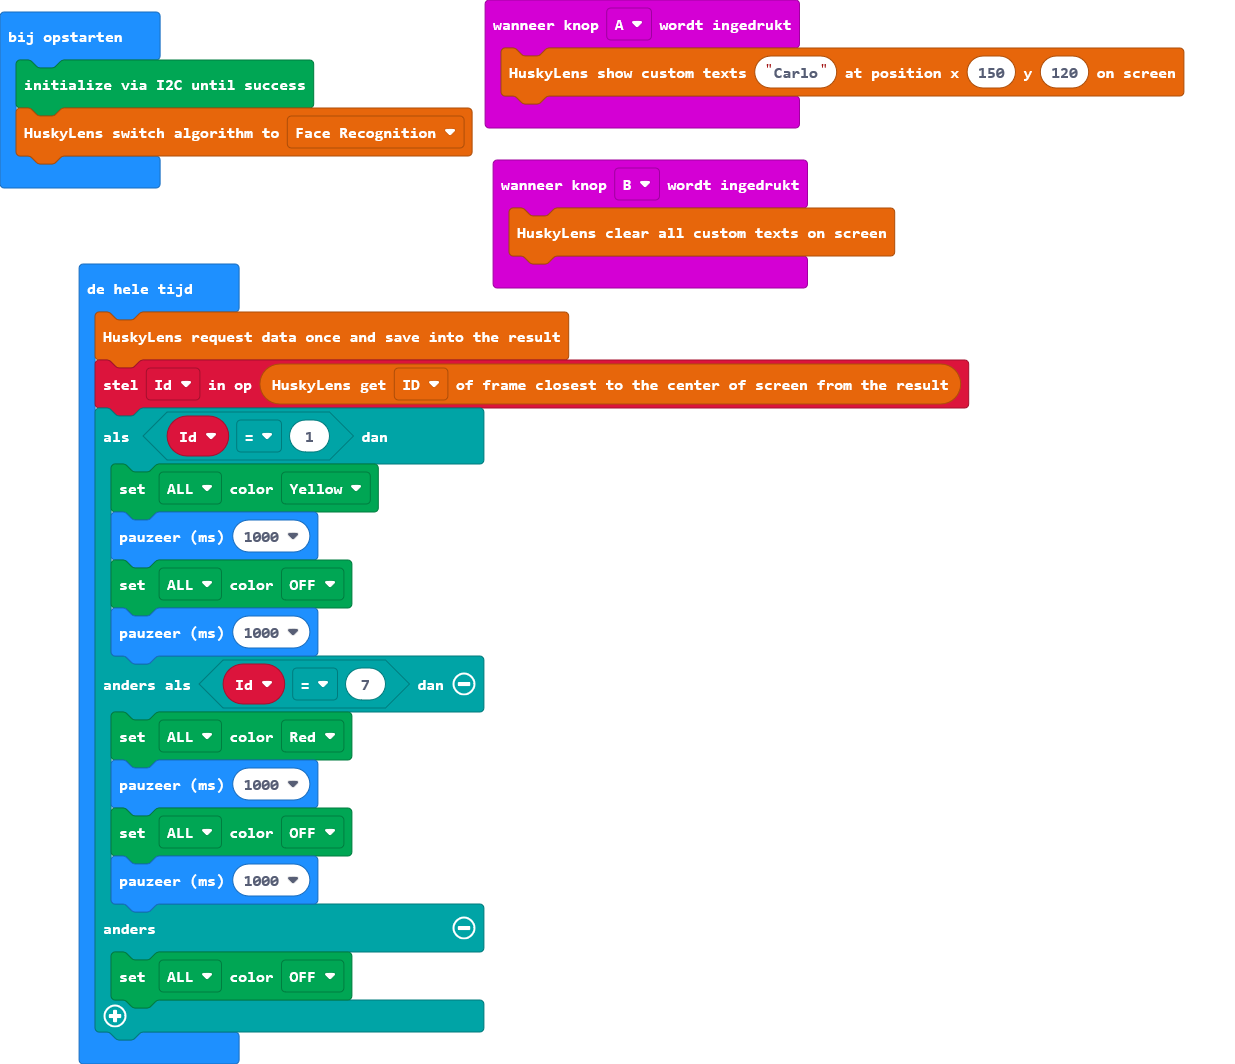
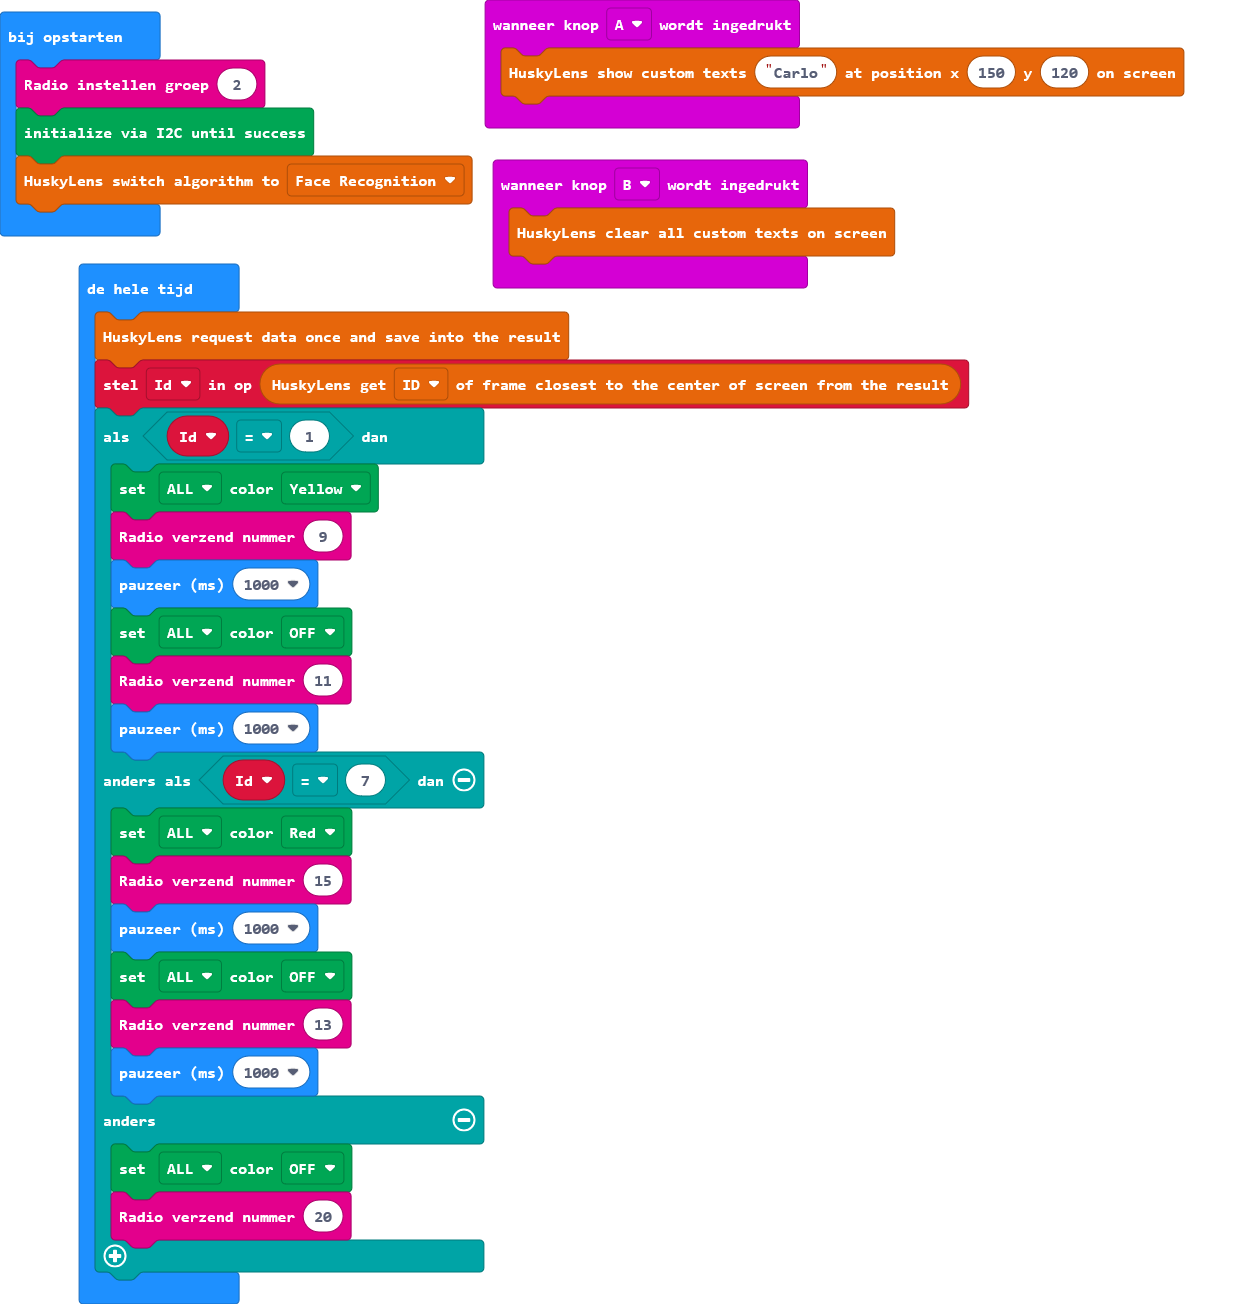
Update main.blocks, main.ts

Changed region(s): [[0.0, 0.0, 0.9846, 0.9925]]

diff --git a/main.ts b/main.ts
@@ -5,6 +5,7 @@ input.onButtonPressed(Button.B, function () {
     huskylens.clearOSD()
 })
 let Id = 0
+radio.setGroup(2)
 DFRobotMaqueenPlus.I2CInit()
 huskylens.initMode(protocolAlgorithm.ALGORITHM_FACE_RECOGNITION)
 basic.forever(function () {
@@ -12,15 +13,20 @@ basic.forever(function () {
     Id = huskylens.readBox_s(Content3.ID)
     if (Id == 1) {
         DFRobotMaqueenPlus.setRGBLight(RGBLight.RGBA, Color.YELLOW)
+        radio.sendNumber(9)
         basic.pause(1000)
         DFRobotMaqueenPlus.setRGBLight(RGBLight.RGBA, Color.OFF)
+        radio.sendNumber(11)
         basic.pause(1000)
     } else if (Id == 7) {
         DFRobotMaqueenPlus.setRGBLight(RGBLight.RGBA, Color.RED)
+        radio.sendNumber(15)
         basic.pause(1000)
         DFRobotMaqueenPlus.setRGBLight(RGBLight.RGBA, Color.OFF)
+        radio.sendNumber(13)
         basic.pause(1000)
     } else {
         DFRobotMaqueenPlus.setRGBLight(RGBLight.RGBA, Color.OFF)
+        radio.sendNumber(20)
     }
 })
